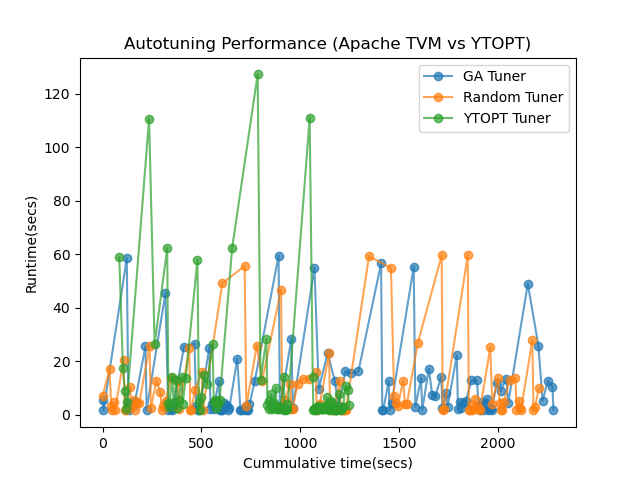
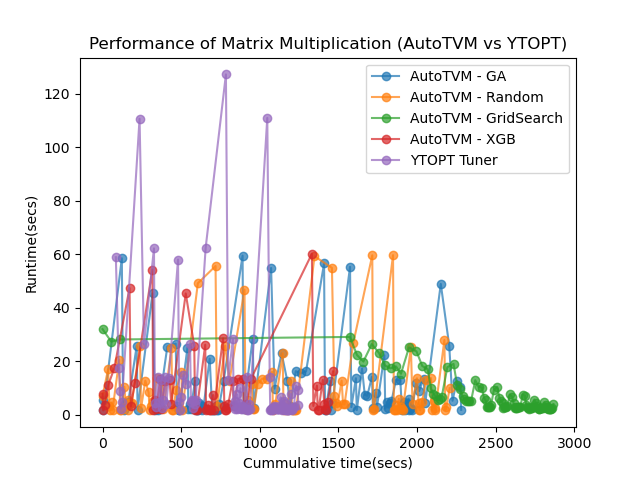
updated plots and 3mm template

diff --git a/apacheTVMSpace/processResults.py b/apacheTVMSpace/processResults.py
@@ -1,10 +1,12 @@
 import json
 import csv
 import matplotlib.pyplot as plt
-
+import numpy as np
 
 RandomData = {}
 GAData = {}
+XGBData = {}
+GridSearchData = {}
 YTOPTData = {}
 
 
@@ -36,7 +38,7 @@ def processYtoptResults(filename):
     with open(filename, 'r') as file:
         reader = csv.reader(file)
         header = next(reader) 
-        i=0
+        i=1
         for row in reader:
             object = {}
             runtime = round(float(row[2]),2) 
@@ -54,6 +56,8 @@ def processYtoptResults(filename):
 
 RandomData = processTVMResults('results/tvm_RandomTuner.json')
 GAData = processTVMResults('results/tvm_GATuner.json')
+XGBData = processTVMResults('results/tvm_XGBTuner.json')
+GridSearchData = processTVMResults('results/tvm_GridSearchTuner.json')
 
 YTOPTData = processYtoptResults('../tvm_matMul/results.csv')
 
@@ -61,9 +65,21 @@ YTOPTData = processYtoptResults('../tvm_matMul/results.csv')
 
 plt.plot([d['elapsed'] for d in GAData.values()], [d['runtime'] for d in GAData.values()],marker='o',alpha=0.7)
 plt.plot([d['elapsed'] for d in RandomData.values()], [d['runtime'] for d in RandomData.values()],marker='o',alpha=0.7)
+plt.plot([d['elapsed'] for d in GridSearchData.values()], [d['runtime'] for d in GridSearchData.values()],marker='o',alpha=0.7)
+plt.plot([d['elapsed'] for d in XGBData.values()], [d['runtime'] for d in XGBData.values()],marker='o',alpha=0.7)
+
 plt.plot([d['elapsed'] for d in YTOPTData.values()], [d['runtime'] for d in YTOPTData.values()],marker='o',alpha=0.7)
-plt.legend(['GA Tuner','Random Tuner','YTOPT Tuner'], loc='upper right')
+
+# plt.axhline(min([d['runtime'] for d in GAData.values()]), color='blue',alpha=0.7)
+# plt.axhline(min([np.log2(d['runtime']) for d in RandomData.values()]), color='orange',alpha=0.7)
+# plt.axhline(min([np.log2(d['runtime']) for d in YTOPTData.values()]), color='green',alpha=0.7)
+# print(min([np.log2(d['runtime']) for d in GAData.values()]))
+# print(min([d['runtime'] for d in RandomData.values()]))
+# print(min([d['runtime'] for d in YTOPTData.values()]))
+
+
+plt.legend(['AutoTVM - GA','AutoTVM - Random','AutoTVM - GridSearch','AutoTVM - XGB','YTOPT Tuner'], loc='upper right')
 plt.xlabel("Cummulative time(secs)")
 plt.ylabel("Runtime(secs)")
-plt.title("Autotuning Performance (Apache TVM vs YTOPT)")
+plt.title("Performance of Matrix Multiplication (AutoTVM vs YTOPT)")
 plt.savefig('Eval_performance.png')

diff --git a/tvm3mm/tvm3MM_RandTuner.py b/tvm3mm/tvm3MM_RandTuner.py
@@ -1,0 +1,64 @@
+import numpy as np
+import tvm
+from tvm import autotvm
+
+import time
+from tvm import te
+
+
+
+def matmul_basic(N, L, M, dtype):
+
+    A = te.placeholder((N, L), name="A", dtype=dtype)
+    B = te.placeholder((L, M), name="B", dtype=dtype)
+    k = te.reduce_axis((0, L), name="k")
+    E = te.compute((N, M), lambda i, j: te.sum(A[i, k] * B[k, j], axis=k), name="E")
+    s = te.create_schedule(E.op)
+    # schedule
+    y, x = s[E].op.axis
+    k = s[E].op.reduce_axis[0]
+    # using 8 as the tiling factor
+    yo, yi = s[E].split(y, 8) 
+    xo, xi = s[E].split(x, 8)
+    s[E].reorder(yo, xo, k, yi, xi)
+    return s, [A, B, E]
+
+@autotvm.template("trial/tvm3mm_v1") 
+def runner(a,b,c,d,e,f,g):
+    pass
+
+
+def main():
+    N,L,M = 2048, 2048, 2048
+    a_np = np.random.uniform(size=(N, L)).astype(np.float32)
+    b_np = np.random.uniform(size=(L, M)).astype(np.float32)
+    c_np = np.random.uniform(size=(N, L)).astype(np.float32)
+    d_np = np.random.uniform(size=(L, M)).astype(np.float32)
+
+    e_np = a_np.dot(b_np)
+    f_np = c_np.dot(d_np)
+
+    e_tvm = tvm.nd.empty(e_np.shape)
+    f_tvm = tvm.nd.empty(f_np.shape)
+
+    g_np = e_np.dot(f_np)
+    g_tvm = tvm.nd.empty(g_np.shape)
+
+    s, arg_bufs = matmul_basic(N, L, M, "float32")
+
+    func = tvm.build(s,arg_bufs)
+
+    start = time.time()
+    func(tvm.nd.array(a_np), tvm.nd.array(b_np), e_tvm)
+    func(tvm.nd.array(c_np), tvm.nd.array(d_np), f_tvm)
+    func(e_tvm, f_tvm, g_tvm)
+    end = time.time()
+    print(g_tvm)
+    print("Elpased time = {} secs".format(round(end-start,2)))
+
+
+
+if __name__ == '__main__':
+    
+    main()
+    

diff --git a/tvm3mm/tvm3MM_Baseline.py b/tvm3mm/tvm3MM_Baseline.py
@@ -1,0 +1,60 @@
+import numpy as np
+import tvm
+from tvm import autotvm
+
+import time
+from tvm import te
+
+
+
+def matmul_basic(N, L, M, dtype):
+
+    A = te.placeholder((N, L), name="A", dtype=dtype)
+    B = te.placeholder((L, M), name="B", dtype=dtype)
+    k = te.reduce_axis((0, L), name="k")
+    E = te.compute((N, M), lambda i, j: te.sum(A[i, k] * B[k, j], axis=k), name="E")
+    s = te.create_schedule(E.op)
+    # schedule
+    y, x = s[E].op.axis
+    k = s[E].op.reduce_axis[0]
+    # using 8 as the tiling factor
+    yo, yi = s[E].split(y, 8) 
+    xo, xi = s[E].split(x, 8)
+    s[E].reorder(yo, xo, k, yi, xi)
+    return s, [A, B, E]
+
+
+def main():
+    N,L,M = 2048, 2048, 2048
+    a_np = np.random.uniform(size=(N, L)).astype(np.float32)
+    b_np = np.random.uniform(size=(L, M)).astype(np.float32)
+    c_np = np.random.uniform(size=(N, L)).astype(np.float32)
+    d_np = np.random.uniform(size=(L, M)).astype(np.float32)
+
+    e_np = a_np.dot(b_np)
+    f_np = c_np.dot(d_np)
+
+    e_tvm = tvm.nd.empty(e_np.shape)
+    f_tvm = tvm.nd.empty(f_np.shape)
+
+    g_np = e_np.dot(f_np)
+    g_tvm = tvm.nd.empty(g_np.shape)
+
+    s, arg_bufs = matmul_basic(N, L, M, "float32")
+
+    func = tvm.build(s,arg_bufs)
+
+    start = time.time()
+    func(tvm.nd.array(a_np), tvm.nd.array(b_np), e_tvm)
+    func(tvm.nd.array(c_np), tvm.nd.array(d_np), f_tvm)
+    func(e_tvm, f_tvm, g_tvm)
+    end = time.time()
+    print(g_tvm)
+    print("Elpased time = {} secs".format(round(end-start,2)))
+
+
+
+if __name__ == '__main__':
+    
+    main()
+    
